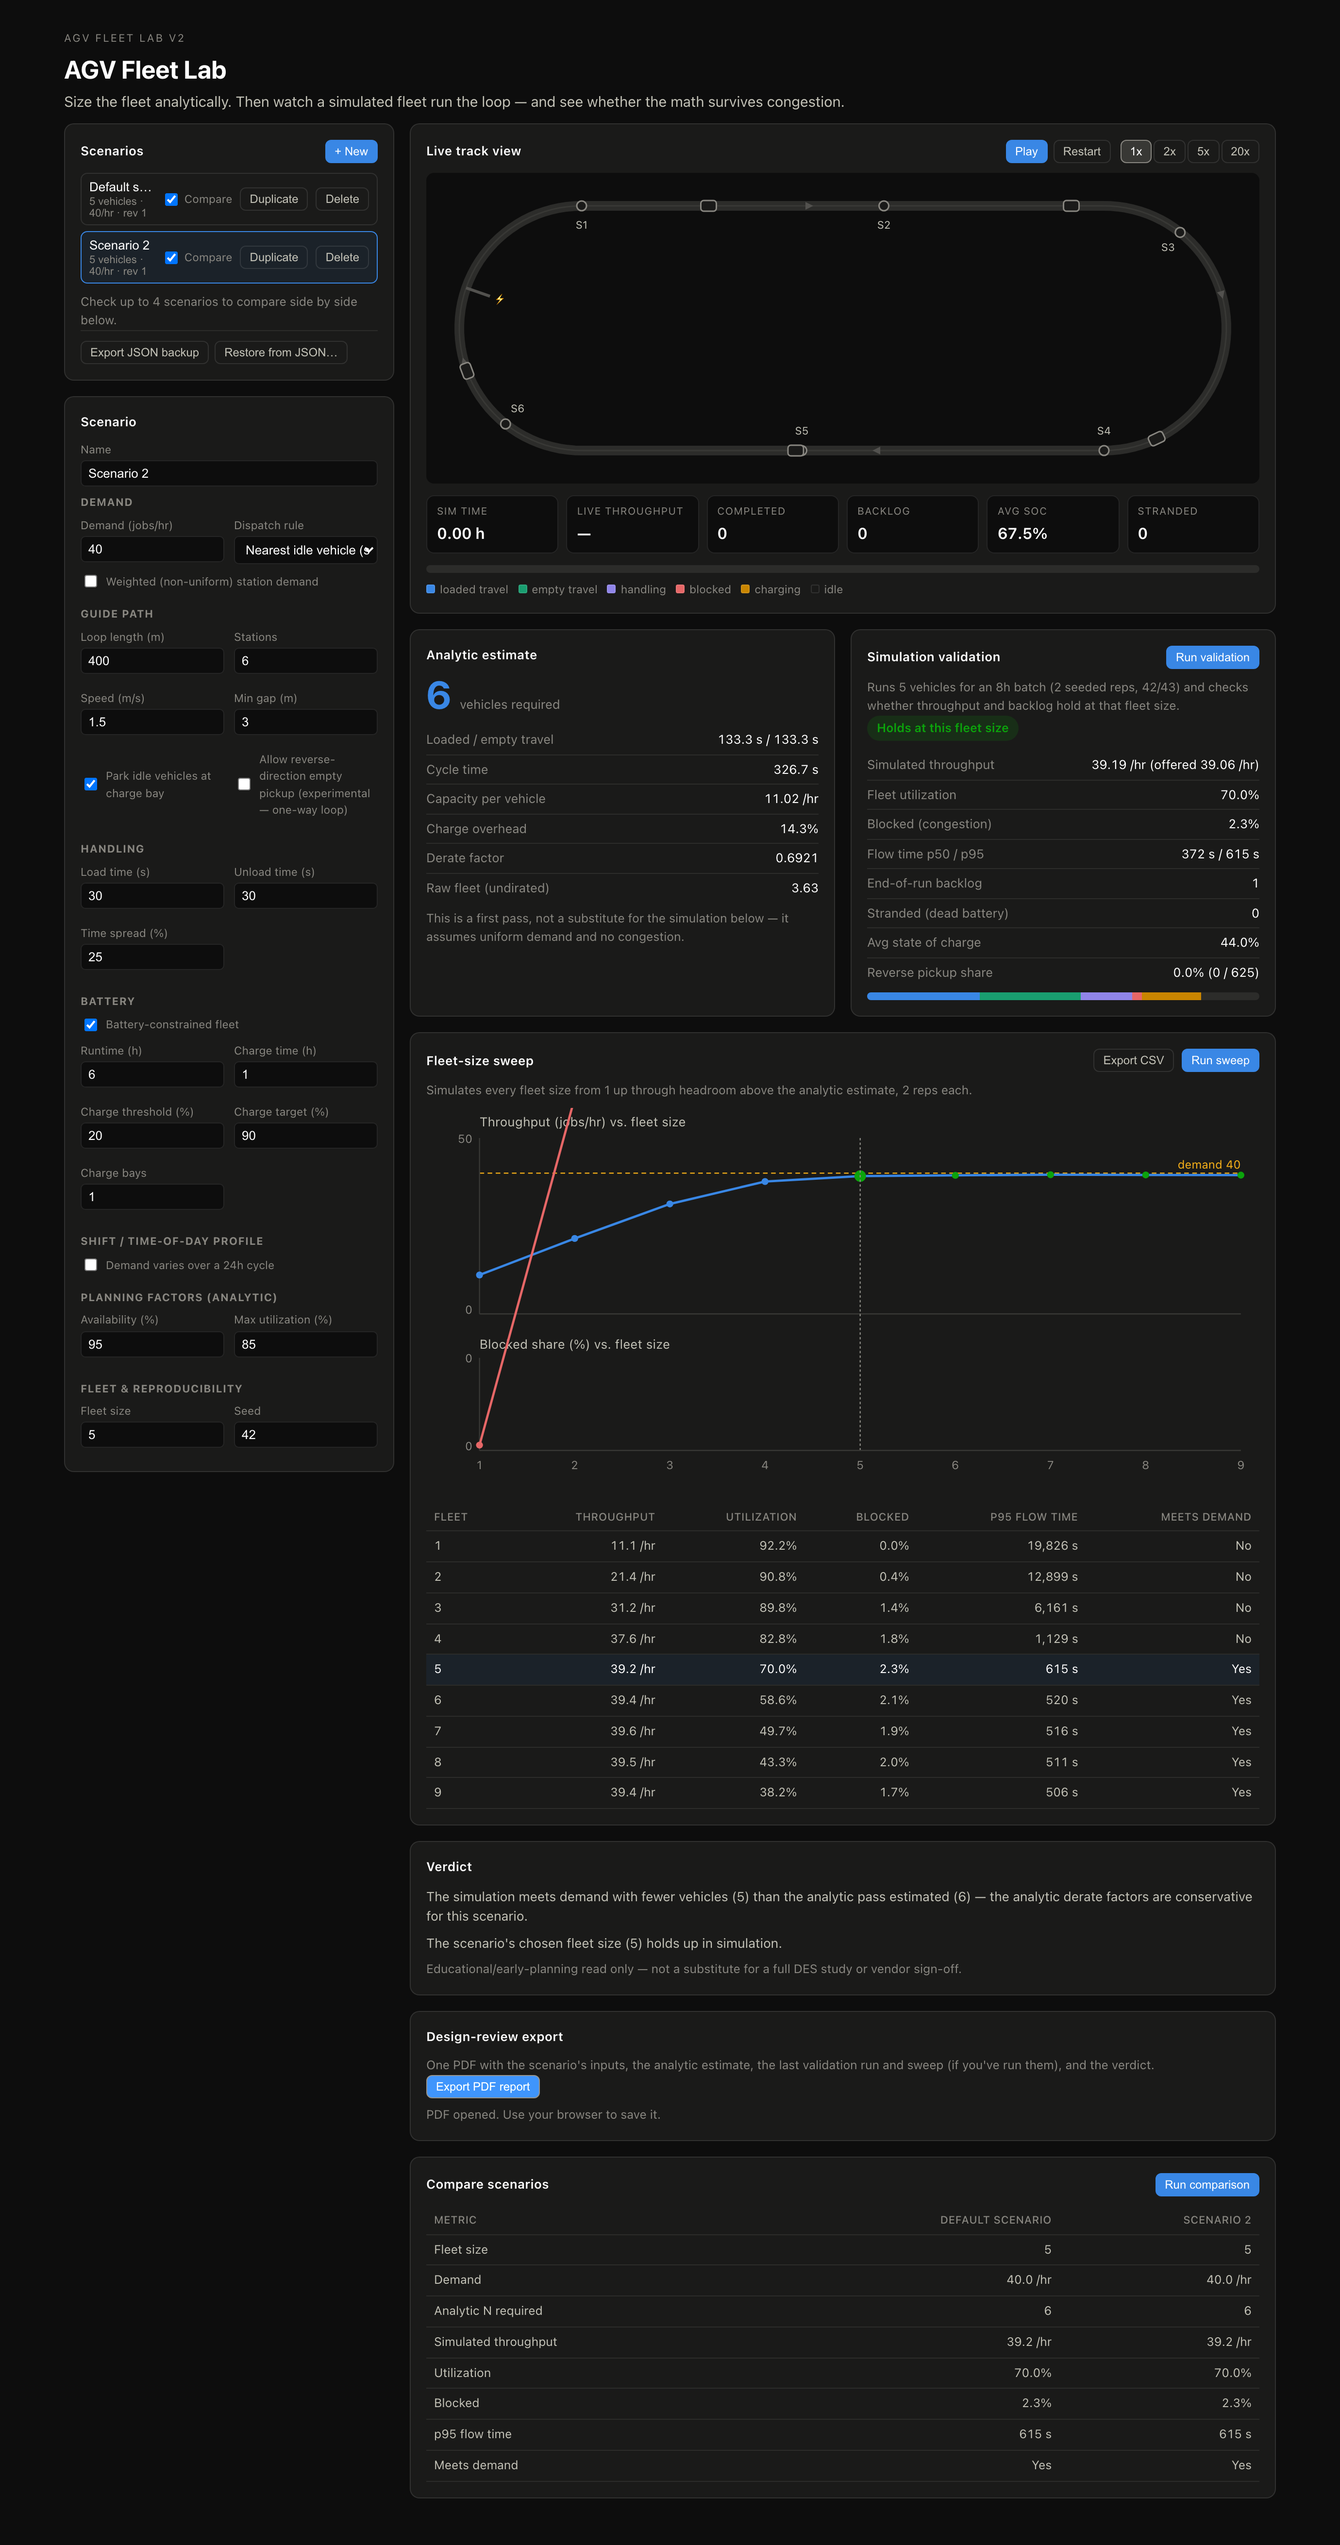
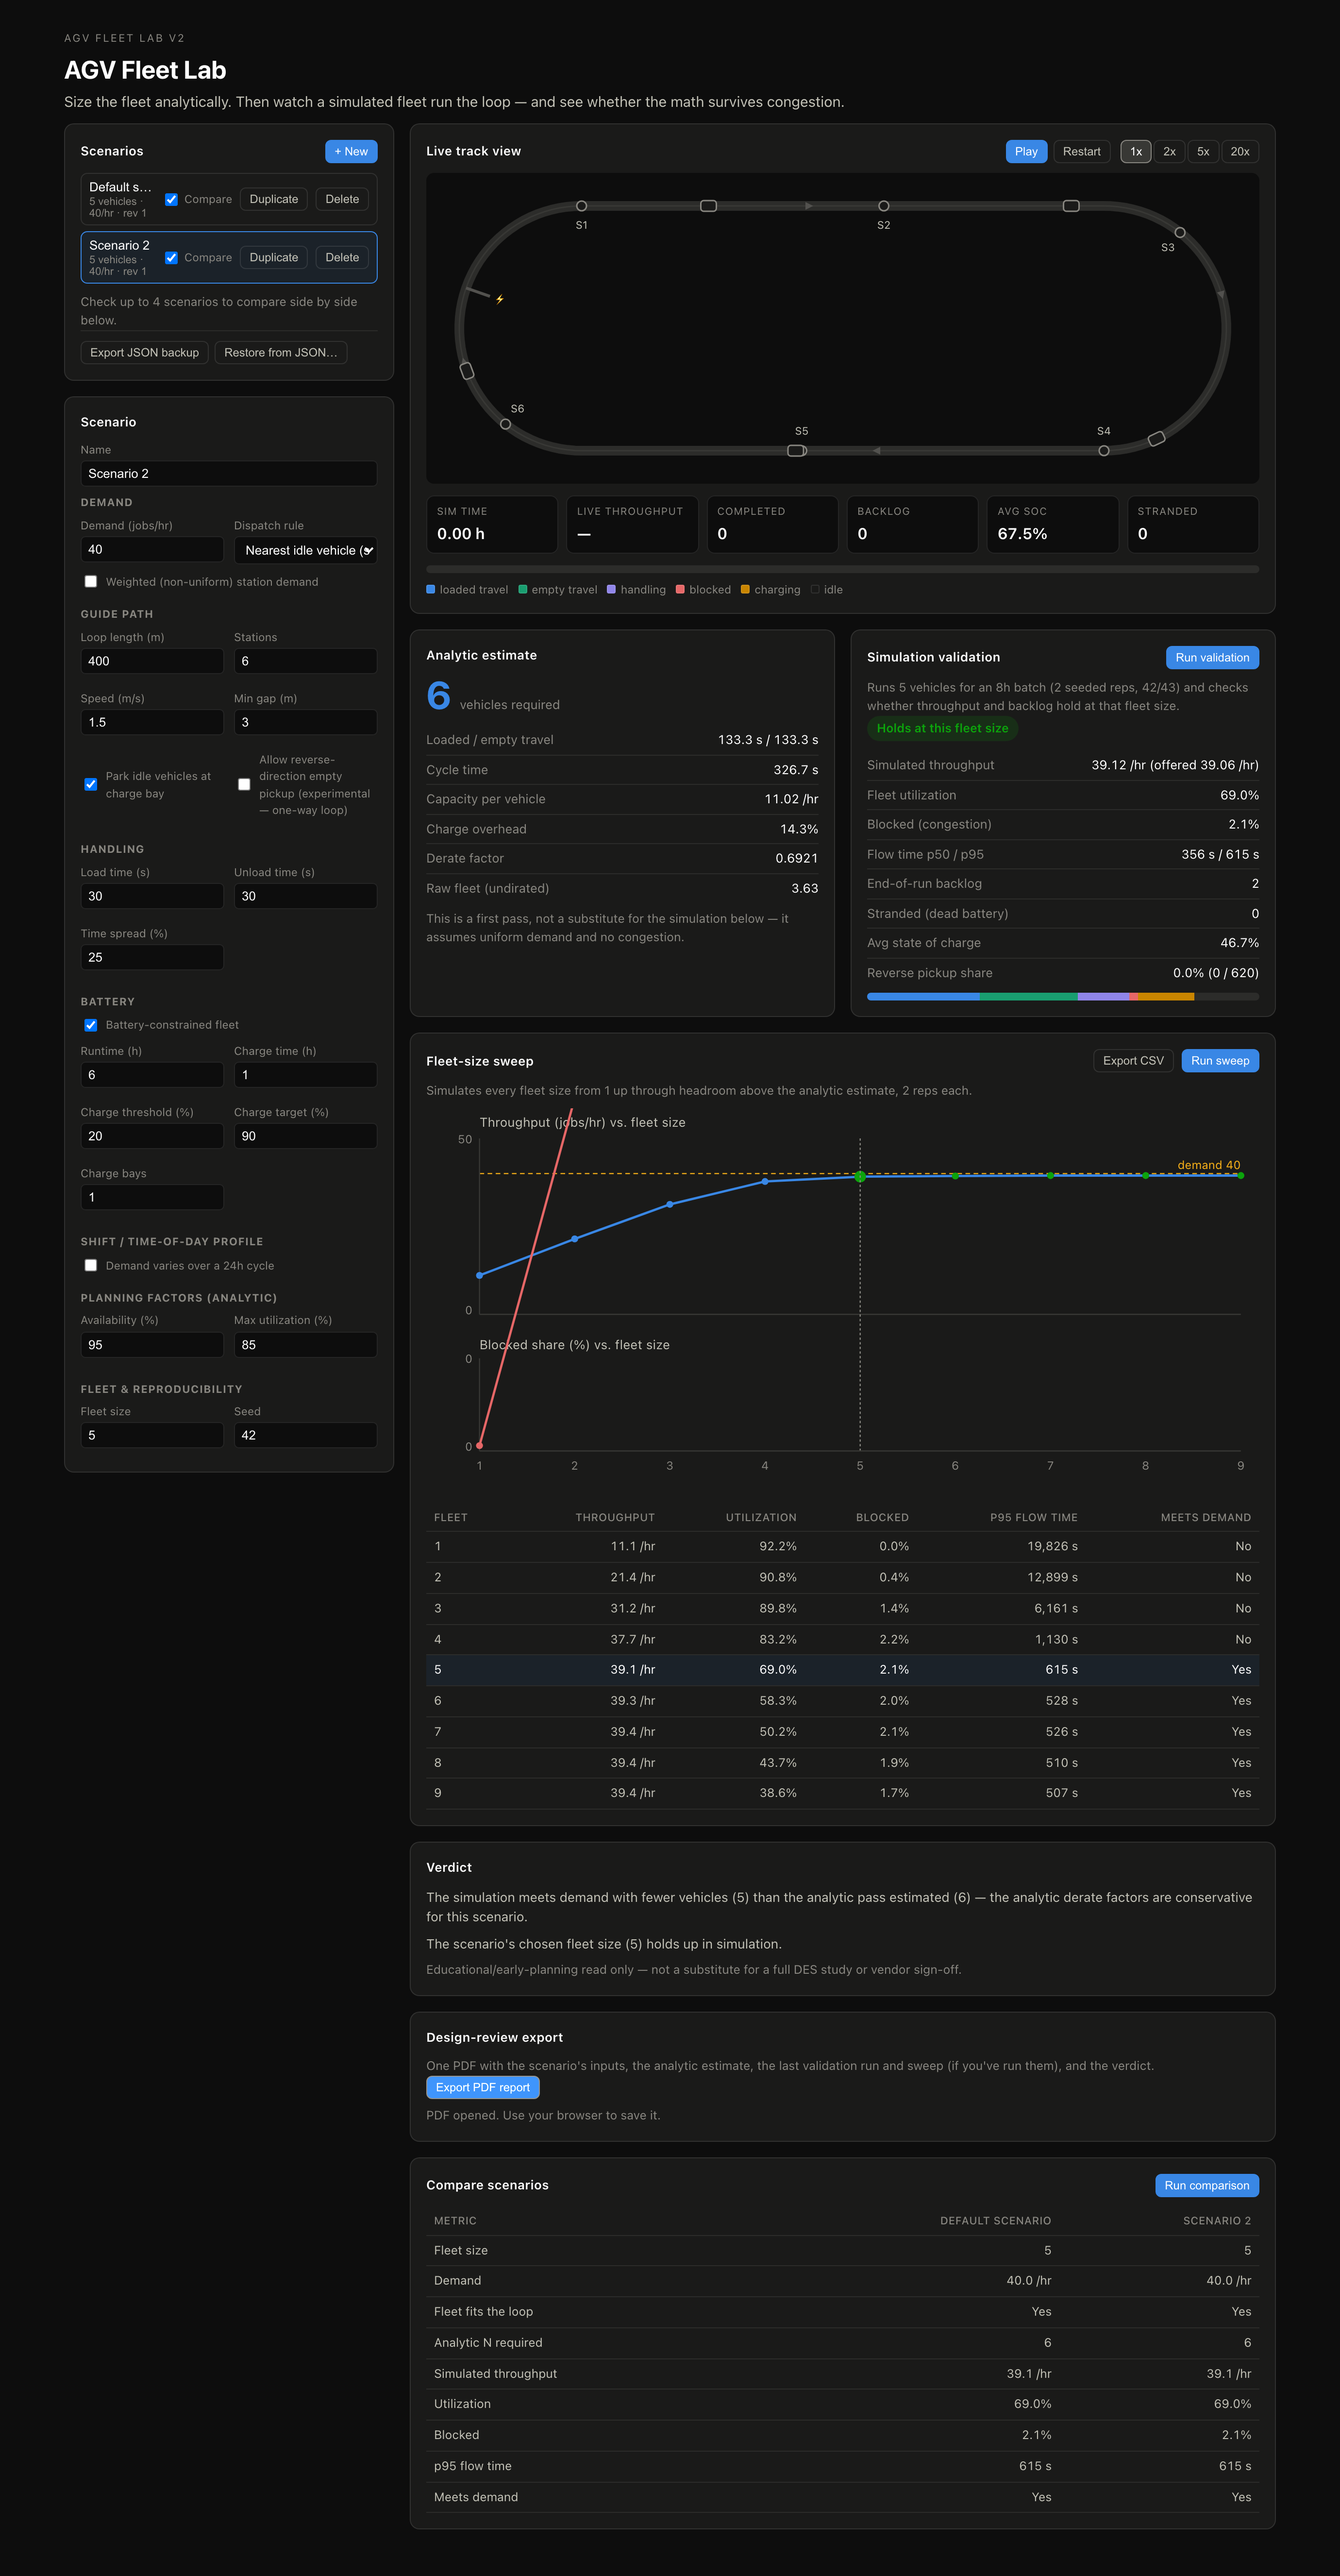
Docs: define feasibility and narrow traffic-safety claims

diff --git a/src/lib/engine/sim.reverse.test.ts b/src/lib/engine/sim.reverse.test.ts
@@ -1,11 +1,11 @@
 /**
- * Reverse-direction empty pickup: traffic invariants.
+ * Reverse-direction empty pickup: experimental give-way invariants.
  *
  * The guide-path model is a SINGLE ONE-WAY LOOP with follow-the-leader,
  * no-passing spacing. Letting an empty vehicle back up toward a pickup puts
- * it nose-to-nose with forward traffic, and the spacing model has no rule to
- * resolve that conflict. These tests pin the invariants the feature must
- * respect to stay inside the model it is built on:
+ * it nose-to-nose with forward traffic unless the experimental give-way rule
+ * intervenes. These tests pin the narrow invariants that rule must preserve;
+ * they are not proof of a general bidirectional traffic-control model:
  *
  *   - no head-on conflict (a reverse vehicle backing into a forward vehicle),
  *   - no permanent blocking (every jam must clear on its own),

diff --git a/src/lib/engine/sim.ts b/src/lib/engine/sim.ts
@@ -132,7 +132,7 @@ export interface SimStats {
   avgSoc: number
   /** Fraction of post-warmup pickups that went reverse (0 when reverse is off). */
   reversePickupShare: number
-  /** Post-warmup count of pickups that chose reverse. */
+  /** Post-warmup count of pickups completed while still travelling reverse. */
   reversePickups: number
   /** Post-warmup count of all pickups (denominator for the share). */
   pickupsObserved: number
@@ -164,7 +164,7 @@ export class Sim {
   lastBlockedIds: Set<number>
   /** Post-warmup count of pickups (TO_PICKUP → LOADING transitions). */
   pickupsObserved: number
-  /** Of those, how many chose reverse (heading was set to -1 at dispatch). */
+  /** Of those, how many arrived while still reversing (give-way trips finish forward and do not count). */
   reversePickups: number
 
   constructor(P: SimParams, seed: number) {

diff --git a/src/lib/defaults.test.ts b/src/lib/defaults.test.ts
@@ -10,9 +10,9 @@ import { REPS, SIM_HOURS, avgStats, batchRun } from './engine/sim.ts'
 
 describe('defaultParams', () => {
   it('ships the supported one-way guide path (reverse pickup is experimental, off)', () => {
-    // Reverse-direction empty pickup puts a vehicle nose-to-nose with forward
-    // traffic on a one-way loop, which the spacing model cannot arbitrate.
-    // It is opt-in only — see sim.reverse.test.ts.
+    // Reverse-direction empty pickup creates opposing traffic outside the
+    // supported one-way contract. The experimental give-way rule can arbitrate
+    // that narrow maneuver, but it remains opt-in — see sim.reverse.test.ts.
     expect(defaultParams().allowReversePickup).toBe(false)
   })
 

diff --git a/src/lib/engine/sweep.ts b/src/lib/engine/sweep.ts
@@ -20,7 +20,7 @@ export interface SweepPoint {
  * Fleet sizes to try: covers the analytic estimate plus headroom, capped at
  * 14 — and at what the guide path can physically hold.
  *
- * Sizes past `maxFeasibleFleet` are dropped rather than simulated and marked.
+ * Sizes past `maxFeasibleFleet` are dropped rather than simulated.
  * A row that reads "0.00/hr, blocked 100%" is indistinguishable from a
  * congestion result, and putting it in the chart, the table and the CSV
  * invites the reader to treat an impossible layout as a measured one. The

diff --git a/README.md b/README.md
@@ -33,18 +33,20 @@ npm run check         # typecheck + lint + test + build, in that order
 
 - Single-loop guide path (multi-node route networks are a future phase).
 - Structured (weighted) station demand, not just uniform random O-D.
-- Selectable dispatch rules (nearest-vehicle, FCFS, longest-waiting priority).
+- Selectable dispatch rules (nearest-vehicle, first-idle FCFS, longest-idle vehicle).
 - Shift / time-of-day demand profiles.
 - Named, versioned scenarios with side-by-side comparison.
 - CSV export and a design-review PDF report.
 
 ## Model boundary: the loop is one-way
 
-Every supported result assumes a **single one-way loop**. That assumption is
-what makes the model tractable: vehicles follow the leader, nobody passes, and
-because all traffic flows the same direction there are no head-on conflicts to
-arbitrate — the layout is deadlock-free by construction. The analytic first
-pass (Egbelu) assumes the same thing.
+Every supported result assumes a **single one-way loop**. That assumption makes
+the model tractable: vehicles follow the leader, nobody passes, and ordinary
+traffic has no opposing flow to create a head-on deadlock. This is not a
+universal safety guarantee. The requested fleet must fit the loop, and vehicles
+returning from the charge/park spur must merge into a real gap. Both conditions
+are enforced before the engine reports simulated results. The analytic first
+pass (Egbelu) assumes the same one-way layout.
 
 **Reverse-direction empty pickup is therefore experimental and off by
 default.** Letting an empty vehicle back up to a nearer pickup is outside that
@@ -55,11 +57,27 @@ up (`REVERSE_CLEARANCE` in `src/lib/engine/sim.ts`). With the option on,
 expect a modest gain at small fleet sizes — where the loop is empty enough for
 the maneuver to be legal — converging on the one-way baseline as the fleet
 fills the loop. Turning it off reproduces the one-way baseline exactly, and
-that equivalence is a pinned test.
+that equivalence is a pinned test. The reverse tests establish this narrow
+give-way behavior; they do not turn the model into a validated bidirectional
+traffic-control system.
 
 Reverse travel that genuinely pays off needs real bidirectional traffic
 control — zone reservation, sidings, deadlock detection — which is a route-
 network phase, not a flag.
+
+## Geometric feasibility
+
+Vehicles are represented as points. In this abstraction, a runnable fleet must
+satisfy `fleet × minGap < loopLen`. Equality is deliberately infeasible: every
+vehicle would sit exactly at its minimum gap and the follow-the-leader rule
+would allow no movement. Real vehicle length, braking envelopes, controls and
+vendor-specific clearances are outside this early-planning model.
+
+AGV Fleet Lab preserves an infeasible scenario as authored, but it does not
+silently simulate or export fabricated KPIs for it. The UI explains the
+geometry problem, validation and live simulation remain disabled, comparison
+marks it as not simulated, and fleet sweeps stop at the largest size that can
+fit.
 
 ## References
 
